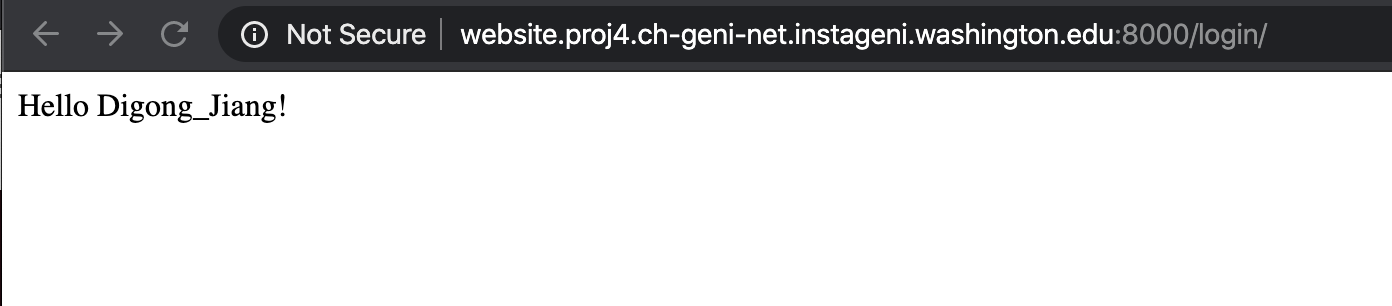
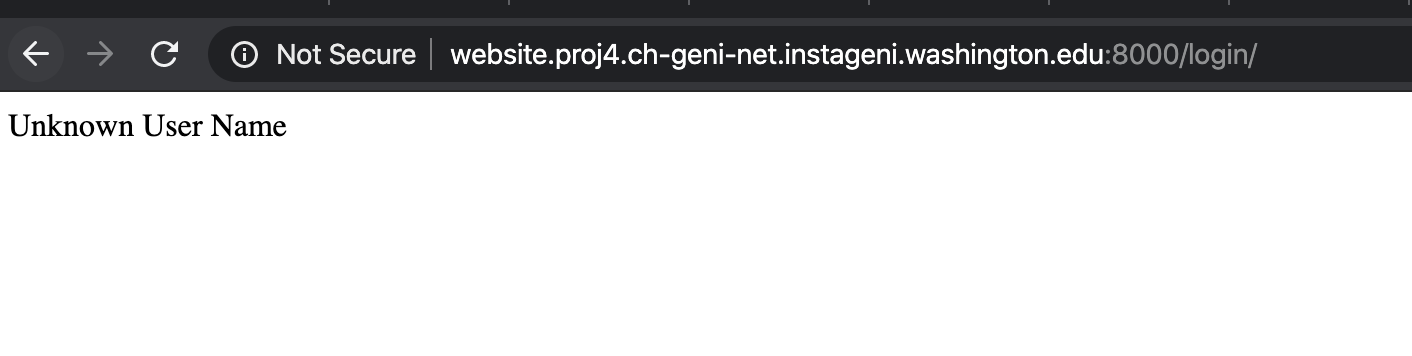
update

Changed region(s): [[0.0, 0.0588, 0.9267, 0.2059], [0.0, 0.2353, 1.0, 0.2647], [0.0, 0.2941, 0.2162, 0.4118]]

diff --git a/README.md b/README.md
@@ -67,6 +67,8 @@ python3 manage.py runserver 0.0.0.0:8000
 
 ![image-20200418233220334](img/normal_result.png)
 
+### Wrong Password
+
 - Try login with 
 
 ```
@@ -78,7 +80,7 @@ password: 123457
 
 ![image-20200418233220334](img/uncorrect_result.png)
 
-### SQL Injection
+## SQL Injection
 
 - Try login with
 
@@ -87,5 +89,6 @@ name: 1' OR '2'='2
 password: 1' OR '2'='2
 ```
 
+![image-20200418233220334](img/sql_injection.png)
 
-
+![image-20200418233220334](img/sql_injection_result.png)
